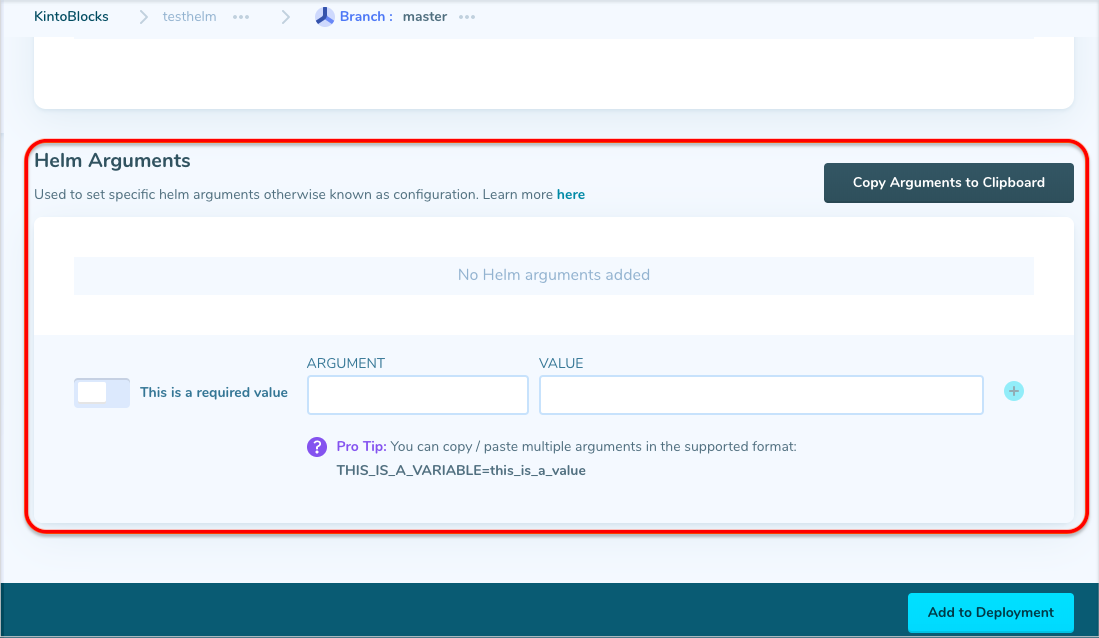
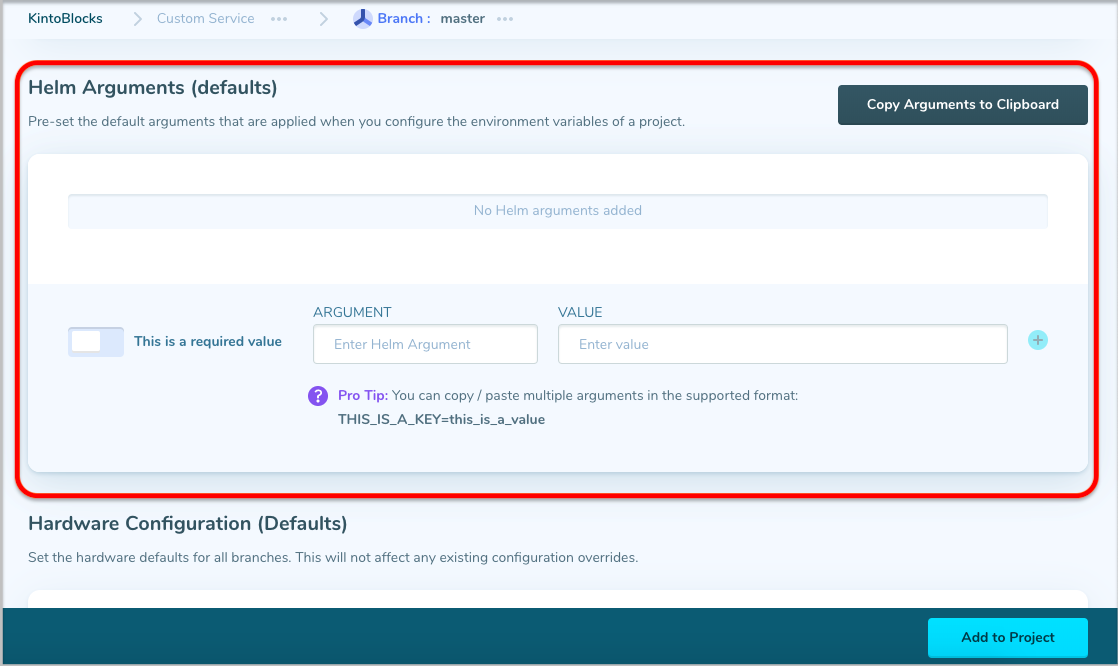
Updating contents for "KintoBlocks" (#156)
* Changes made to manage kb

* Update manage-blocks.md

Removed `Doc` in Advanced Options section.

* Update manage-blocks.md

* Delete helm-arguments.png

* Add files via upload

* Update helm-arguments.md

Made the changes in Steps 2 and also changed the contents.

diff --git a/docs/features/building/manage-blocks.md b/docs/features/building/manage-blocks.md
@@ -4,24 +4,93 @@ title: Manage KintoBlocks
 
 ## Editing KintoBlocks
 
-The KintoBlock properties like `Description`, `Display Name`, `Port`, `Build command`, `Run` and `Doc format` specified during the creation can be edited and modified with new values.
+The KintoBlock properties like `KintoBlock Name`, `Language`, `Version`, `Description`, `Environment Variables` and `Hardware Configuration` specified during the creation can be edited and modified with new values.
 
-To edit a KintoBlock follow the steps mentioned below:
+>Note: **Environment Variables** are not specified during the creation of KintoBlock.
+
+To edit a **Static Website** KintoBlock when `Build Required` toggle is `On` follow the steps mentioned below:
+
+1. Open a Static Website KintoBlock.
+
+      ![Settings Button](/docs/assets/kintoblock-settings.png)
+
+2. Click on **Settings** button displayed in sidebar to modify the information.
+
+3. Edit Basic Info of the KintoBlock like `KintoBlock Name`, `Language`, `Version`, and `Description`.
+
+      ![Editing Information of KintoBlock](/docs/assets/kintoblock-basic-info.png)
+
+4. Click on the **Save Changes** button.
+
+To edit a **Static Website** KintoBlock when `Build Required` toggle is `Off` follow the steps mentioned below:
+
+1. Open a Static Website KintoBlock.
+
+2. Click on **Settings** button displayed in the sidebar to modify the information.
+
+3. Edit Basic Info of the KintoBlock like `KintoBlock Name` and `Description`.
+
+   ![Editing Information of KintoBlock](/docs/assets/kintoblock-edit-info.png)
+   
+4. Click on the **Save Changes** button.
+
+To edit a **Dynamic Website** KintoBlock, follow the steps mentioned below:
+
+1. Open a Dynamic Website KintoBlock.
+
+2. Click on **Settings** button displayed in the sidebar to modify the information.
+
+3. Edit Basic Info of the KintoBlock like `KintoBlock Name`, `Language`, `Version`, and `Description`.
+
+4. Click on the **Save Changes** button.
+
+To edit hardware configuration for website, follow the steps mentioned below:
+
+1. Open a Website KintoBlock.
+
+2. Click on **Settings** button displayed in the sidebar to modify the Hardware Configuration.
+
+3. Edit the default memory limit.
+
+      ![Hardware Configuration](/docs/assets/kb-hardware-configuration.png)
+
+4. Click on the **Save Changes** button.
+
+[Click Here](/docs/features/deploying/environment-variables) to Know more about **Environment Variables**.
+
+>Note: Above mentioned steps can be followed for **Microservice** and **Custom Service** for editing the properties like `KintoBlock Name`, `Language`, `Version`, `Description`, `Environment Variables` and `Hardware Configuration`.
+
+## Advanced Options for KintoBlock
+
+Advanced Options is used to modify the KintoBlock with properties like `Protocol`, `Port`, `Build command` and `Start command` format are auto-filled based on the chosen language. These values are editable and can be changed if required.
+
+>Note: For **Microservice KintoBlock** properties like `Protocol`, `Port`, `Build command` and `Start command` are availabe. 
+
+To edit Advanced Option, follow the steps mentioned below:
 
 1. Open a KintoBlock.
 
-2. Click on the **pencil icon** displayed beside the title to modify the Description and Display Name of the KintoBlock.
+2. Scroll down to **Builds & Repository** section.
 
-    ![Screenshot](/docs/assets/display-name.png)
+3. Expand **Advanced Options** to view the `Protocol`, `Port`, `Build command` and `Start command` fields.
 
-3. Scroll down to **Builds & Repository** section.
-
-4. Expand **Advanced Options** to view the `Port`, `Build command`, `Run`, and `Doc` fields
+    ![Advanced Options](/docs/assets/kintoBlock-advanced-option.png)
 
 5. Specify new values wherever necessary.
 
 6. Click on the **Save Changes** button to apply changes.
 
+7. For **Dynamic Website**, properties like `Port`, `Build command`, `Start command` are available.
+   
+    ![Advanced Option for Dynamic Website](/docs/assets/advance-option-dynamic-website.png)
+
+8. For **Static Website**, properties like `Build command` and `Build folder` are available.
+    
+    ![Advanced Option for Static Website](/docs/assets/advanced-option-static-website.png)
+
+9. For **Custom Service**, properties like `Helm chart source folder` is available.
+    
+    ![Advanced Option for Static Website](/docs/assets/advanced-option-custom-service.png)
 
 ## Add to Projects
 

diff --git a/docs/features/building/helm-arguments.md b/docs/features/building/helm-arguments.md
@@ -1,0 +1,53 @@
+---
+title: Helm Arguments
+---
+
+## What are Helm Arguments?
+
+**Helm Arguments** are used to reconfigure the default configurations in **Helm Charts**. They will be used during the deployment. All the **branches** of a Custom Service KintoBlock will have a common Helm Arguments. It is also possible to add multiple Helm Arguments to a Custom Service KintoBlock.
+
+The Helm Arguments value can be added on the **KintoBlock Manage** page or via **Configure Dependencies** button in Deployment Manage Page. It is not recommended to assign a `Value` for each Helm Argument that is added to the Custom Service KintoBlock, If any changes are required in the helm chart then we can assign a `Value` or else we can leave it empty.
+
+
+## How to define Helm Arguments in a Custom Service KintoBlock?
+
+The Helm Arguments can be added to a Custom Service KintoBlock via the **KintoBlock Manage** page by following the steps mentioned below:
+
+1. Open a **Custom Service** KintoBlock.
+
+2. Click on Settings button displayed in sidebar to modify the Helm Arguments.
+
+3. Scroll down to the **Helm Arguments** section at the bottom of the form.
+
+    ![Screenshot](/docs/assets/helm-arguments.png)
+
+4. Add the **Helm Argument** and set the default value. 
+
+    >Note: Users can override the default value whenever it needs to be updated.
+
+5. Click on the **+** button.
+
+6. By default, each Helm Argument added will be regarded as an optional variable. If you would like to mandate the use of any specific Helm Argument, enable the **This is a required value** option.
+ 
+
+## Manage Helm Arguments
+
+It is possible to edit and delete a Helm Argument in Custom Service KintoBlock at any required point. The edit and delete operations are done in the **KintoBlocks Manage** page:
+
+1. Open a **Custom Service** KintoBlock.
+
+2. Click on Settings button displayed in sidebar to modify the Helm Arguments.
+
+3. Scroll down to the **Helm Arguments** section at the bottom of the form.
+
+4. To edit, overwrite the existing `Argument` and `Value` with the updated values.
+
+5. To delete, click on the **X** icon displayed beside the Helm Argument.
+
+6. Click on the **Save Changes** button to apply the changes.
+
+
+### Points to remember
+
+- The owner of a KintoBlock can add, edit or delete Helm arguments and values.
+- Public users with access to a KintoBlock can edit the Helm Arguments values via **Configure Dependencies** button in Deployment Manage page.

diff --git a/docs/features/building/build-arguments.md b/docs/features/building/build-arguments.md
@@ -1,0 +1,44 @@
+---
+title: Build Arguments
+---
+
+## What are Build Arguments?
+
+**Build Arguments** are unique variables that are passed as environment variables during build-time. They can be passed by adding `Arguments` and `Values` and can be of use during the build process of KintoBlock. They are specific to a **branch** of a KintoBlock and in case you switch branches and want to use a particular branch in `KintoBlock`, then you will need to input the `Build Arguments` on that branch too.
+
+>Note: The Build Arguments can be added to **Microservice**, **Website** and **Custom Service** on the `KintoBlock Manage` page.
+
+## How to add Build Arguments in KintoBlock?
+
+To add Build Arguments to “KintoBlock”, follow the steps mentioned below:
+
+1. Open a KintoBlock.
+
+2. Select the required branch in the repository.
+
+3. Scroll down to the “Build Arguments” section at the bottom of the form.
+
+    ![Build Arguments](/docs/assets/build-arguments.png)
+
+4. Add the **Argument** and **Value**. 
+
+5. Click on the **+** icon.
+
+6. Click on the "Save Changes" button.
+ 
+
+## How to Edit or Delete Build Arguments in KintoBlock?
+
+It is possible to edit and delete a Build Argument in KintoBlock at any required point. The edit and delete operations are also carried out in the `KintoBlocks Manage` page.
+
+1. Open the KintoBlock.
+
+2. Select the required branch in your repository.
+
+3. Scroll down to the **Build Arguments** section at the bottom of the form.
+
+4. To edit, overwrite the existing `Name` and `Value` with the updated values.
+
+5. To delete, click on the **X** icon displayed beside build arguments.
+
+6. Click on the `Save Changes` button to apply the changes.

diff --git a/docs/introduction/try-deploying/nodejs-app.md b/docs/introduction/try-deploying/nodejs-app.md
@@ -256,5 +256,5 @@ Great job on completing this quick-start!
 What to read next:
 
  - Explore all [KintoBlock flavors](kintoblocks/introduction.md) that are available.
- - Read about [advanced Project concepts](deployments/introduction.md).
+ - Read about [advanced Project concepts](projects/introduction.md).
  - Try the [Todo List example app tutorial](examples/todo-list/tutorial.md) showcasing multiple KintoBlocks working together.
